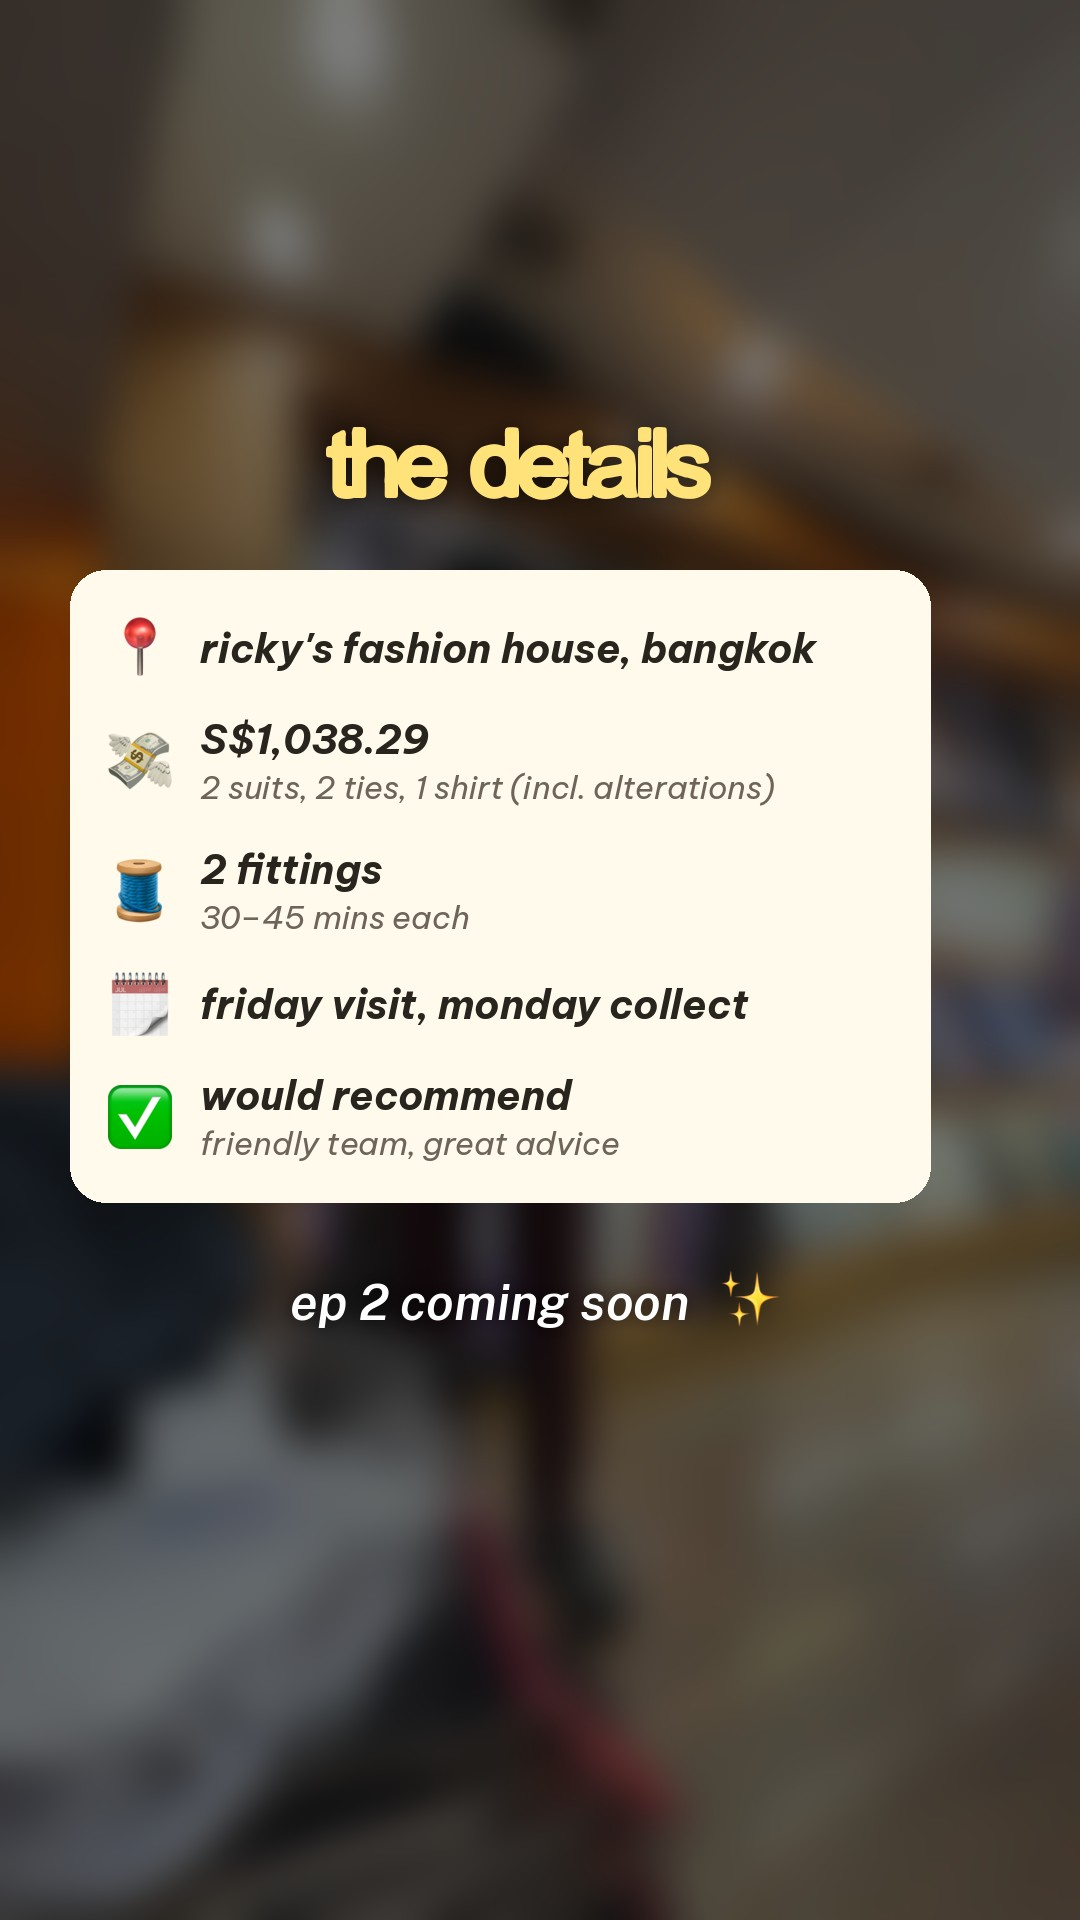
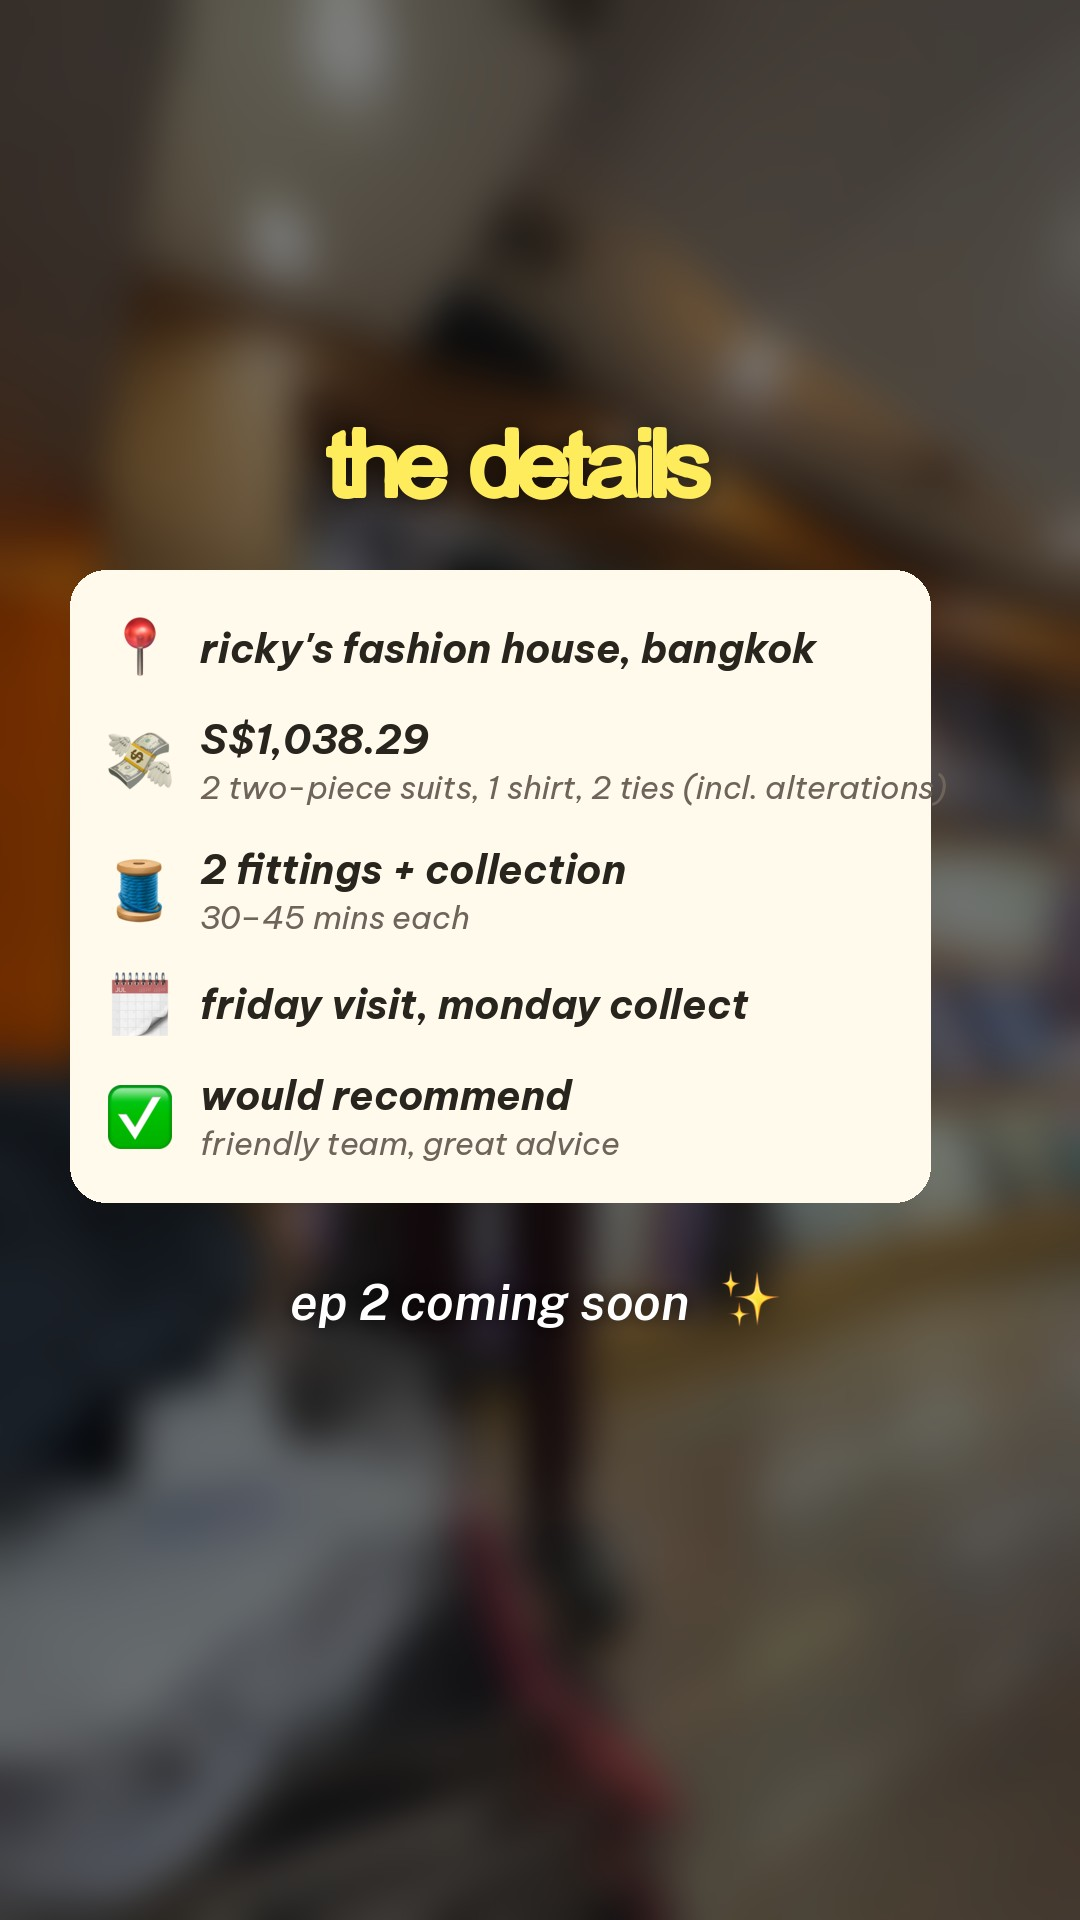
Ep 1: brighter butter yellow, tighter title, script rewritten from Joshua's walkthrough
Claude-Session: https://claude.ai/code/session_01T9Xb58pVenXMcWoNtDPL6M

Changed region(s): [[0.2139, 0.4062, 0.8556, 0.4688], [0.3056, 0.2188, 0.6722, 0.2812]]

diff --git a/tools/style.py b/tools/style.py
@@ -4,7 +4,7 @@ from PIL import Image, ImageDraw, ImageFont, ImageFilter
 
 ROOT = Path(__file__).resolve().parent.parent
 FONTS, EMOJI = ROOT / 'fonts', ROOT / 'assets' / 'emoji_ios'   # Apple (iOS) emoji, 64px source
-BUTTER = (255, 226, 122)          # #FFE27A
+BUTTER = (255, 236, 92)           # #FFEC5C bright, light butter yellow
 CREAM = (255, 250, 235)
 INK = (40, 36, 30)
 W, H = 1080, 1920
@@ -90,8 +90,9 @@ def series_title(im, ep_line, cy=H // 2, series='[ wedding series ]'):
     f1, f2 = font('bootzy', 170), font('bootzy', 290)
     y1 = cy - 140
     text(im, (W // 2, y1), 'absolutlee', f1, BUTTER, shadow=12)
-    a_t = d.textbbox((W // 2, y1), 'absolutlee', font=f1, anchor='mm')[1]
-    y2 = cy + 170                               # baseline of "i do"
+    a_t, a_b = d.textbbox((W // 2, y1), 'absolutlee', font=f1, anchor='mm')[1::2]
+    d_top = d.textbbox((0, 0), 'd', font=f2, anchor='ls')[1]   # negative: ascender height above baseline
+    y2 = a_b - d_top + 8                        # baseline of "i do", almost touching "absolutlee"
     o_l, o_t, o_r, o_b = d.textbbox((0, 0), 'o', font=f2, anchor='ls')
     o_w, o_h = o_r - o_l, o_b - o_t
     w_i, w_d = f2.getlength('i'), f2.getlength('d')

diff --git a/episodes/ep01_suit/stills.py b/episodes/ep01_suit/stills.py
@@ -24,8 +24,8 @@ im.convert('RGB').save(OUT / 'still_intro.jpg', quality=90)
 im = backdrop(Image.open(S / 'f_reveal.png'), blur=20, dim=0.5)
 text(im, (W // 2 - 20, 470), 'the details', font('bootzy', 110), BUTTER, shadow=12)
 rows = [('📍', "ricky's fashion house, bangkok", None),
-        ('💸', 'S$1,038.29', '2 suits, 2 ties, 1 shirt (incl. alterations)'),
-        ('🧵', '2 fittings', '30–45 mins each'),
+        ('💸', 'S$1,038.29', '2 two-piece suits, 1 shirt, 2 ties (incl. alterations)'),
+        ('🧵', '2 fittings + collection', '30–45 mins each'),
         ('🗓', 'friday visit, monday collect', None),
         ('✅', 'would recommend', 'friendly team, great advice')]
 x0, x1, y = 70, 930, 570

diff --git a/episodes/ep01_suit/storyboard.md b/episodes/ep01_suit/storyboard.md
@@ -10,25 +10,26 @@ Target length: about 1:20–1:30. Vertical 9:16. No music (sound added in TikTok
 - **Be Vietnam Pro**: info card, at the end only
 - **iOS (Apple) emojis**: pop in with a bounce. Series title emojis are fixed for every episode: 💍 (as the "o"), 🤵 👰 💐 🥂 🤍
 
-**Timeline from the footage**
-- **Fri 6 Nov, 4:48pm:** arrive. Fabric, measurements, lining and shirt (about 1 hr).
-- **Fri, about 7:30pm:** fitting 1 (basted jacket)
-- **Sat 7 Nov, about 7:50pm:** fitting 2
-- **Mon 9 Nov, about 1:15pm:** final try-on and collection
+**Timeline (from Joshua + clip timestamps)**
+- **Fri 6 Nov, about 5pm:** arrive (recommended by a friend). Short wait, served by the owner's teammate. Suit styles, burgundy shade, measurements, linings (about 1 hr).
+- **Fri, about 7:30–8pm:** fitting 1 ("skeleton" basted suit)
+- **Sat 7 Nov, evening:** fitting 2. Pants too long, shirt loose at the waist; both altered. Black suit adjusted.
+- **Mon 9 Nov, about 1:15pm:** final try-on (extra room requested for gym), beer, collection
 
 ## Voiceover script (Joshua)
 
 1. if you've seen our proposal prep videos… well, she said yes. so now it's wedding prep time.
 2. welcome to episode 1 of absolutlee i do, our wedding series. i flew to bangkok to get my wedding suits made. here's exactly how it went, how much it cost, and if it's worth it.
-3. we went to ricky's fashion house, along sukhumvit soi 3. tip: message them before you fly with photos of the style you want.
-4. friday afternoon, we started with fabric. there are hundreds of options, so go in knowing your colours. i picked a bold burgundy… and a classic black.
-5. then measurements. every. single. inch. the whole consult took about an hour.
-6. the fun part is the details. we chose a flamingo lining, because why not. and for the shirt, they suggested french cuffs so i can wear cufflinks.
-7. first fitting was that same evening. the jacket is still in pieces, they pin and chalk it right on you. second fitting was the next night.
-8. on monday, i collected them.
-9. they matched ties to both suits… and yes, they gave me a beer.
-10. all in: two suits, two ties and a shirt, alterations included, for about a thousand sgd. give yourself at least three days for fittings.
-11. would i recommend them? yes. super friendly team, great advice, and they really know their suits. ep 2 coming soon.
+3. we landed on friday, and by 5pm i was at ricky's fashion house in sukhumvit, recommended by a friend.
+4. i went in knowing exactly what i wanted: two suits. a classic black, single-breasted, and a bold burgundy, double-breasted with four buttons.
+5. then measurements. waist, hips, legs, shoulders. every. single. inch.
+6. the fun part is the lining. for the burgundy, they suggested pink flamingos to make the colour pop. for the black, a white and red pattern.
+7. that same night, fitting one. they put you in a skeleton suit to check the cut.
+8. saturday, fitting two. the pants were a bit long and the shirt a bit loose, so they adjusted both.
+9. tip: if you're hitting the gym before the wedding, tell them. i asked for a little extra room.
+10. monday, collection day. everything fit perfectly… and they even gave me a beer.
+11. all in: two 2-piece suits, a shirt and two ties, alterations included, for S$1,038. that's about five hundred per suit.
+12. would i recommend them? yes. friendly team, great advice, and they really know their suits. ep 2 coming soon.
 
 **Original audio kept**
 - 1963: "let's go make some suits"
@@ -42,12 +43,13 @@ Target length: about 1:20–1:30. Vertical 9:16. No music (sound added in TikTok
 |---|---|---|---|
 | 0 | 1401 + 5387 proposal | VO 1 | Opens on the proposal: kneel, then the "she said yes" arm raise. Photo-frame still slides in with a whoosh, 💍 |
 | 1 | 2004 @8.5s (first fitting, WIP), then 2336 reveal and 2352 bag | VO 2 | **Title frame** (`still_title.jpg`, centred) lands on "welcome to episode 1…" with a sparkle SFX, and emojis pop in one by one. Then a quick 3-cut teaser of the end result, with flash and shutter SFX on a freeze frame. |
-| 3 | 1963 street, 1966/1967/1965 shopfront | OG 1963 + VO 3 | Whip pan. 📍 tag "ricky's fashion house, sukhumvit soi 3". 💡 "tip" sticker. |
-| 4 | 1968, 1976, 1971/1972/1974/1975 swatches | VO 4 | 0.6s cuts, pop on each, 👀, speed ramp |
-| 5 | 1977, 1994, 1979 order book | VO 5 + OG 1977 | Punch-in zooms on each word, 📏, freeze frame |
-| 6 | 1983/1980–1982 lining, 1993 shirt fabric | VO 6 | Polaroid stills with shutter SFX, 🦩, "*why not*" in script |
-| 7 | 1999, 2004–2006 (fri night), 2121 (sat) | VO 7 | "fitting 1" / "fitting 2" tags, whoosh |
-| 8 | 2332–2335 → **2336 reveal** | VO 8 + OG tailor | Slow-mo reveal, sparkle, "*so dapper*" in script, 😍 |
-| 9 | 2341/2342 ties, 2339/2340 lining close-up, 2337/2338 beer | VO 9 | Detail cuts. 🍺 with a funny freeze frame. |
-| 10 | 2352/2353/2351 collection | OG 2352 + VO 10 | 🎉, then cuts to bag shots |
-| 11 | Info card over blurred 2336, then collage | VO 11 | **Info card** (`still_infocard.jpg`) slides up with a ding, "ep 2 coming soon ✨" |
+| 3 | 1963 street, 1966/1967/1965 shopfront | OG 1963 ("let's go make some suits") + VO 3 | Whip pan. 📍 tag "ricky's fashion house, sukhumvit" |
+| 4 | 1968 fabric wall, 1976 rolls, 1971/1972/1974/1975 swatches (burgundy shades) | VO 4 | Text tags "black · single-breasted" and "burgundy · double-breasted, 4 buttons" pop in. 0.6s cuts, a pop on each. |
+| 5 | 1977 arm, 1994 neck, 1979 order book | VO 5 + OG 1977 | Punch-in zoom on each word, 📏, freeze-frame still of the order book |
+| 6 | 1983/1980–1982 flamingo lining, 1985–1991 red pattern lining | VO 6 | Polaroid stills with shutter SFX, 🦩, "*so fun*" in script |
+| 7 | 1999 walk in (night), 2004–2006 skeleton suit | VO 7 | "fitting 1" tag, whoosh |
+| 8 | 2121 shirt and pants (sat), 2332–2335 | VO 8 | "fitting 2" tag, quick cuts |
+| 9 | 2006 pinning shots | VO 9 | 💡 "tip" sticker |
+| 10 | 2336 **reveal** (OG tailor: "million bucks"), 2337/2338 beer | VO 10 + OG tailor | Slow-mo reveal, sparkle, "*so dapper*" in script, 😍, then 🍺 with a funny freeze frame |
+| 11 | 2341/2342 ties, 2339/2340 lining close-up, 2352/2353 collection | VO 11 + OG 2352 ("got my suit, let's go!") | Detail cuts, 🎉 |
+| 12 | Info card over blurred 2336, then collage | VO 12 | **Info card** (`still_infocard.jpg`) slides up with a ding, then "ep 2 coming soon ✨" |
